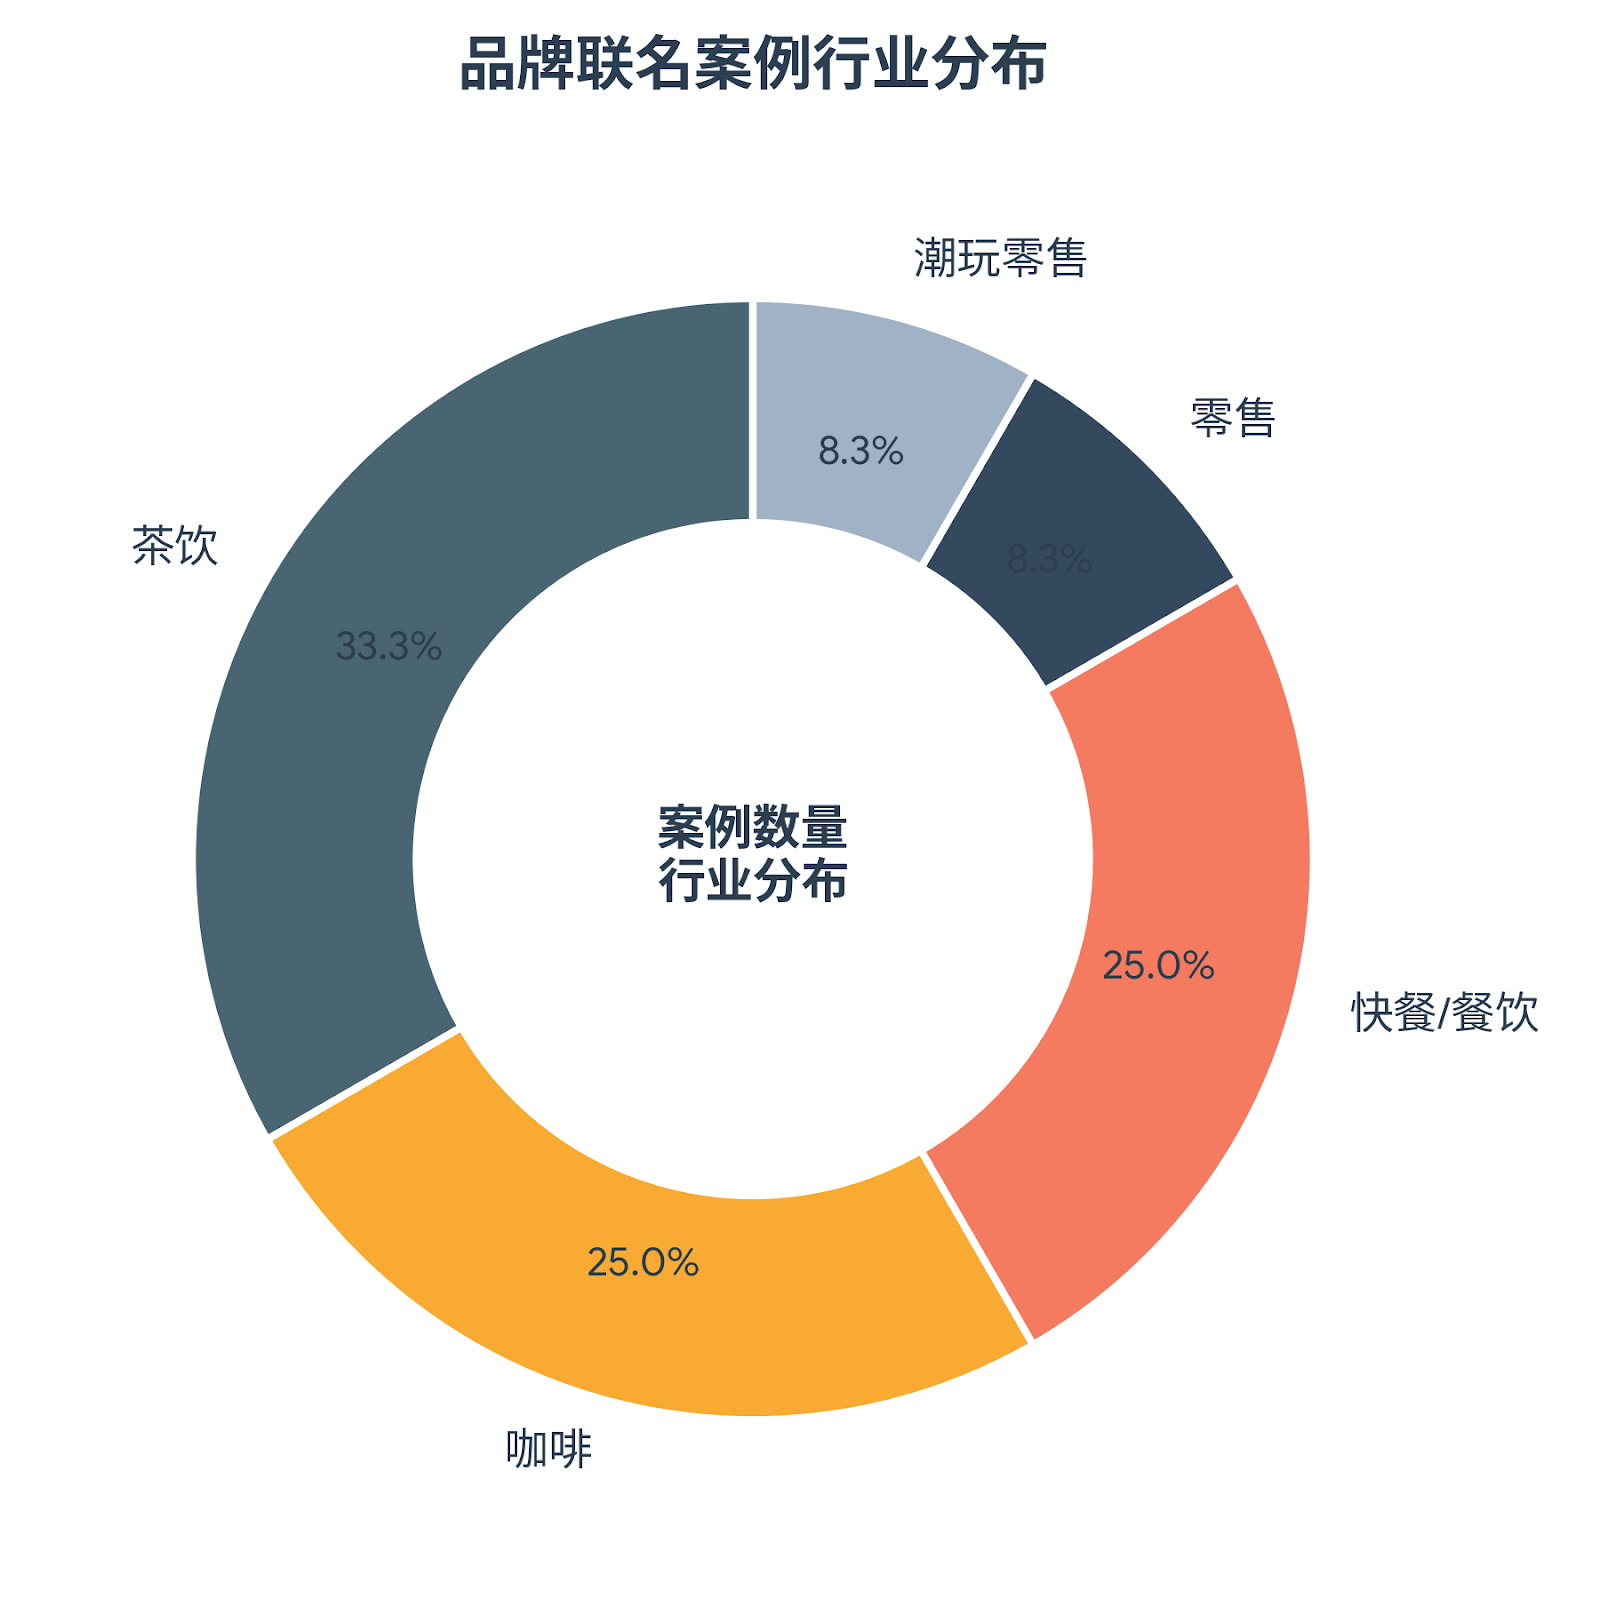
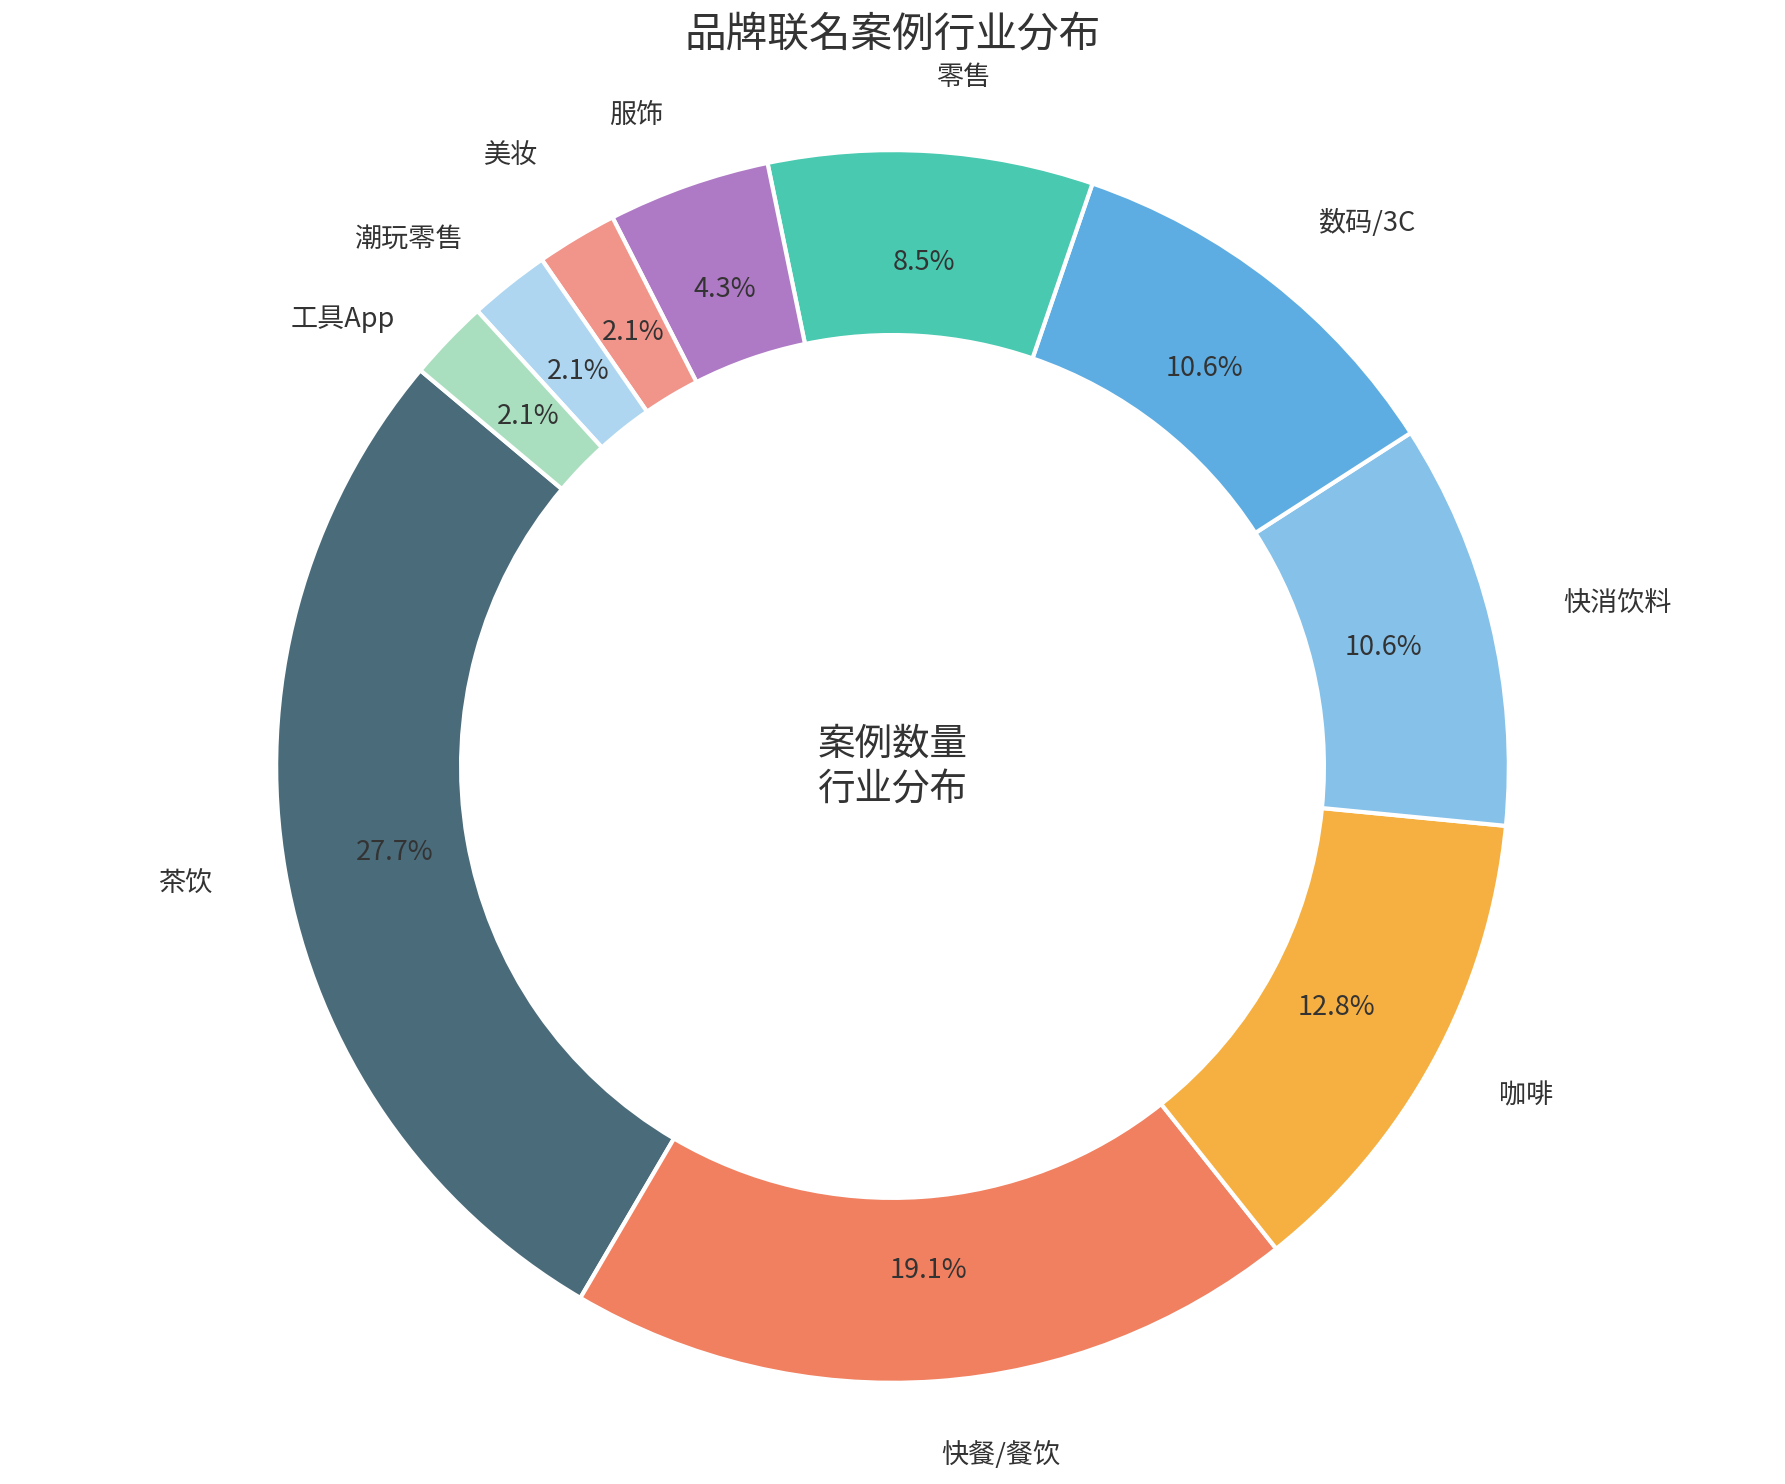
Add files via upload

diff --git a/script.js b/script.js
@@ -265,14 +265,14 @@ function setupCharts() {
 
   init("chart-industry", {
     title: {
-      text: "吃喝场景占据联名案例主场",
+      text: "吃喝场景仍是主场，行业向外扩散",
       left: "center",
       top: 4,
       textStyle: { ...baseText, fontSize: 18, fontWeight: 800 },
     },
     tooltip: { trigger: "item", formatter: "{b}<br/>{d}%" },
     legend: { bottom: 0, textStyle: baseText },
-    color: [blue, sky, orange, amber, "#94A3B8"],
+    color: [blue, orange, amber, sky, "#60A5FA", teal, "#A78BFA", "#FCA5A5", "#BAE6FD", "#86EFAC"],
     series: [
       {
         name: "行业分布",
@@ -288,26 +288,47 @@ function setupCharts() {
           lineHeight: 20,
         },
         data: [
-          { value: 33.3, name: "茶饮" },
-          { value: 25, name: "咖啡" },
-          { value: 25, name: "快餐/餐饮" },
-          { value: 8.3, name: "零售" },
-          { value: 8.3, name: "潮玩零售" },
+          { value: 27.7, name: "茶饮" },
+          { value: 19.1, name: "快餐/餐饮" },
+          { value: 12.8, name: "咖啡" },
+          { value: 10.6, name: "快消饮料" },
+          { value: 10.6, name: "数码/3C" },
+          { value: 8.5, name: "零售" },
+          { value: 4.3, name: "服饰" },
+          { value: 2.1, name: "美妆" },
+          { value: 2.1, name: "潮玩零售" },
+          { value: 2.1, name: "工具App" },
         ],
       },
     ],
   });
 
-  const heatRows = ["必胜客×原神", "喜茶×光与夜之恋", "名创优品×Chiikawa", "古茗×恋与深空", "瑞幸×黑神话", "泡泡玛特×哪吒2", "古茗×星穹铁道"];
+  const heatRows = [
+    "瑞幸×黑神话：悟空",
+    "古茗×星穹铁道",
+    "名创优品×Chiikawa",
+    "泡泡玛特×哪吒之魔童闹海",
+    "茶百道×未定事件簿",
+    "茶百道×星穹铁道",
+    "古茗×恋与深空",
+    "古茗×天官赐福",
+    "必胜客×原神",
+    "肯德基×原神",
+    "必胜客×鸣潮",
+  ];
   const heatCols = ["排队", "售罄", "黄牛/二手溢价", "App/小程序崩溃", "官方回应/道歉"];
   const heatValues = [
-    [1, 1, 0, 1, 0],
-    [1, 0, 1, 0, 1],
-    [1, 1, 1, 0, 1],
-    [1, 0, 0, 0, 1],
     [1, 1, 1, 1, 1],
-    [1, 1, 1, 0, 1],
     [1, 1, 0, 1, 1],
+    [1, 1, 1, 0, 1],
+    [1, 1, 1, 0, 1],
+    [1, 1, 0, 1, 0],
+    [1, 1, 1, 0, 0],
+    [1, 1, 0, 0, 1],
+    [1, 1, 0, 0, 1],
+    [1, 1, 0, 1, 0],
+    [1, 1, 0, 0, 0],
+    [1, 1, 0, 0, 0],
   ];
   init("chart-heatmap", {
     title: {
@@ -323,7 +344,7 @@ function setupCharts() {
         return `${heatRows[y]}<br>${heatCols[x]}：${value ? "出现" : "未见明显表现"}`;
       },
     },
-    grid: { left: 132, right: 16, top: 74, bottom: 94 },
+    grid: { left: 190, right: 16, top: 74, bottom: 94 },
     xAxis: {
       type: "category",
       data: heatCols,
@@ -335,7 +356,7 @@ function setupCharts() {
       type: "category",
       data: heatRows,
       inverse: true,
-      axisLabel: { color: slate },
+      axisLabel: { color: slate, fontSize: 12 },
       axisLine: { lineStyle: { color: gridLine } },
       axisTick: { show: false },
     },

diff --git a/index.html b/index.html
@@ -37,8 +37,8 @@
           <span class="metric-label">2024年泛二次元及周边市场规模</span>
         </div>
         <div class="metric-card">
-          <span class="metric-number">83.3%</span>
-          <span class="metric-label">茶饮、咖啡、快餐/餐饮占代表性联名案例比例</span>
+          <span class="metric-number">70.2%</span>
+          <span class="metric-label">茶饮、快餐/餐饮、咖啡、快消饮料占代表性联名案例比例</span>
         </div>
       </div>
 
@@ -100,50 +100,62 @@
           <figcaption><span>图4 品牌联名案例行业分布</span><small>来源：艾媒咨询、作者整理</small></figcaption>
         </figure>
 
-        <p>对近年来代表性品牌联名案例的行业分布进行统计，可以发现一个极度不均衡的漏斗结构。茶饮（33.3%）、咖啡（25.0%）与快餐/餐饮（25.0%）三大类目，合力占据了高达83.3%的绝对统治份额；零售与潮玩各占8.3%。</p>
-        <p>这种“吃喝为主”的格局并非巧合，而是由消费心理学决定的。茶饮与快餐具有“高频次、低客单价、极易触达”的特征。十几二十元的奶茶，辅以精心设计的IP杯套或徽章，完美充当了年轻人低成本获取“情绪价值”的出口。在高度同质化的餐饮赛道，二次元联名成为了品牌打出差异化、创造线下社交货币的最优解。</p>
+        <p>对近年来代表性品牌联名案例的行业分布进行统计，可以发现联名赛道已经从餐饮扩散到更多日常消费品类，但高频消费场景仍然占据主导。茶饮以27.7%位居第一，快餐/餐饮（19.1%）与咖啡（12.8%）紧随其后；快消饮料与数码/3C均为10.6%，零售占8.5%，服饰、美妆、潮玩零售与工具App等品类则构成更分散的长尾。</p>
+        <p>这种“吃喝为主、向多品类外溢”的格局并非巧合，而是由消费心理学决定的。茶饮、快餐、咖啡和快消饮料合计占比达到70.2%，它们共同具备“高频次、低客单价、极易触达”的特征。十几二十元的饮品或套餐，辅以精心设计的IP杯套、徽章或限定包装，完美充当了年轻人低成本获取“情绪价值”的出口。与此同时，数码/3C、零售、服饰美妆等品类的加入，也说明二次元联名正在从餐饮营销手段，转向更广泛的品牌年轻化工具。</p>
 
         <figure class="figure-card timeline-card reveal">
-          <div class="timeline-visual" aria-label="2022到2025年品牌二次元联名代表案例时间轴">
+          <div class="timeline-visual" aria-label="2021到2026年品牌二次元联名代表案例时间轴">
             <div class="timeline-line" aria-hidden="true"></div>
             <div class="timeline-item right">
               <span class="dot"></span>
-              <div class="timeline-box"><strong>2022年</strong><span>必胜客 × 原神</span><small>快餐/餐饮｜游戏IP｜APP拥堵</small></div>
+              <div class="timeline-box"><strong>2021年</strong><span>王老吉 × 第五人格</span><small>快消饮料｜游戏IP｜5亿罐定制罐大规模铺货</small></div>
             </div>
             <div class="timeline-item left">
               <span class="dot"></span>
-              <div class="timeline-box"><strong>2024年</strong><span>喜茶 × 光与夜之恋</span><small>茶饮｜女性向游戏IP｜爆单</small></div>
+              <div class="timeline-box"><strong>2021年</strong><span>全家 × 咒术回战</span><small>零售｜日漫IP｜持续联动，收藏卡热度高</small></div>
             </div>
             <div class="timeline-item right">
               <span class="dot"></span>
-              <div class="timeline-box"><strong>2024年</strong><span>名创优品 × Chiikawa/吉伊卡哇</span><small>零售｜潮流角色IP｜夜排</small></div>
+              <div class="timeline-box"><strong>2022年</strong><span>必胜客 × 原神</span><small>快餐｜游戏IP｜APP拥堵、抢购热潮</small></div>
             </div>
             <div class="timeline-item left">
               <span class="dot"></span>
-              <div class="timeline-box"><strong>2024年</strong><span>古茗 × 恋与深空</span><small>茶饮｜女性向游戏IP｜爆单</small></div>
+              <div class="timeline-box"><strong>2022年</strong><span>瑞幸 × JOJO的奇妙冒险</span><small>咖啡｜动漫IP｜限定周边引发抢购</small></div>
+            </div>
+            <div class="timeline-item right">
+              <span class="dot"></span>
+              <div class="timeline-box"><strong>2023年</strong><span>古茗 × 天官赐福</span><small>茶饮｜国漫IP｜三天周边断货，官方发道歉声明</small></div>
+            </div>
+            <div class="timeline-item left">
+              <span class="dot"></span>
+              <div class="timeline-box"><strong>2023年</strong><span>茶百道 × 未定事件簿</span><small>茶饮｜乙女游戏IP｜冲上热搜，店员喊“救命”</small></div>
             </div>
             <div class="timeline-item right">
               <span class="dot accent"></span>
-              <div class="timeline-box"><strong>2024年</strong><span>瑞幸咖啡 × 黑神话：悟空</span><small>咖啡｜国产游戏IP｜秒售罄</small></div>
+              <div class="timeline-box"><strong>2024年</strong><span>瑞幸 × 黑神话：悟空</span><small>咖啡｜国产游戏IP｜秒售罄、App崩、二手溢价</small></div>
             </div>
             <div class="timeline-item left">
               <span class="dot accent"></span>
-              <div class="timeline-box"><strong>2025年</strong><span>泡泡玛特 × 哪吒之魔童闹海</span><small>潮玩零售｜动画电影IP｜线上线下售罄</small></div>
+              <div class="timeline-box"><strong>2024年</strong><span>名创优品 × Chiikawa</span><small>零售｜潮流IP｜夜排、限流、售罄、黄牛</small></div>
             </div>
             <div class="timeline-item right">
               <span class="dot accent"></span>
-              <div class="timeline-box"><strong>2025年</strong><span>库迪咖啡 × 哪吒之魔童闹海</span><small>咖啡｜动画电影IP｜热卖</small></div>
+              <div class="timeline-box"><strong>2025年</strong><span>古茗 × 星穹铁道</span><small>茶饮｜游戏IP｜百万人排队、小程序崩溃</small></div>
             </div>
             <div class="timeline-item left">
               <span class="dot accent"></span>
-              <div class="timeline-box"><strong>2025年</strong><span>古茗 × 崩坏：星穹铁道</span><small>茶饮｜游戏IP｜百万人排队</small></div>
+              <div class="timeline-box"><strong>2025年</strong><span>泡泡玛特 × 哪吒之魔童闹海</span><small>潮玩｜动画电影IP｜线上线下售罄、二手溢价</small></div>
+            </div>
+            <div class="timeline-item right">
+              <span class="dot alert"></span>
+              <div class="timeline-box"><strong>2026年</strong><span>茶百道 × 星穹铁道</span><small>茶饮｜游戏IP｜3秒售罄、周边溢价5倍</small></div>
             </div>
           </div>
-          <img class="source-reference zoomable" src="assets/images/figure05-timeline.png" alt="2022到2025年品牌二次元联名代表案例时间轴原图">
-          <figcaption><span>图5 2022—2025年品牌二次元联名代表案例时间轴</span><small>来源：Bilibili平台公开内容分析、作者整理</small></figcaption>
+          <img class="source-reference zoomable" src="assets/images/figure05-timeline.png" alt="2021到2026年品牌二次元联名代表案例时间轴原图">
+          <figcaption><span>图5 2021—2026年品牌二次元联名代表案例时间轴</span><small>来源：Bilibili平台公开内容分析、作者整理</small></figcaption>
         </figure>
 
-        <p>如果将视线拉长，联名的频率和密度正在经历剧烈的压缩。在品牌联名时间轴上，2022年的“必胜客×原神”尚属于具有极高壁垒的年度重磅事件。然而到了2024至2025年，各类联名呈现出“按月扎堆”甚至“同档期神仙打架”的局面。从女性向游戏（光与夜之恋、恋与深空），到萌系潮流IP（Chiikawa），再到国产游戏与动画巨制（黑神话：悟空、哪吒之魔童闹海），联名覆盖的圈层越来越垂直细分。品牌联名已然从个别节点的营销活动，发展成为日常产品上新的常态化武器。</p>
+        <p>如果将视线拉长，联名的频率和行业边界都在不断变化。2021年的王老吉×第五人格、全家×咒术回战，说明联名并非只发生在茶饮赛道，而是从快消饮料、零售等更早的线下触点开始铺开；2022年的必胜客×原神、瑞幸×JOJO的奇妙冒险，则把“抢购、拥堵、限定周边”推向更大众的消费场景。到了2023至2026年，茶饮、咖啡、零售、潮玩等品牌密集入局，联名从单点爆款转向持续迭代：国漫、日漫、国产游戏、乙女游戏和潮流角色IP交替登场，覆盖的圈层越来越细，也越来越日常。</p>
 
         <figure class="figure-card chart-card reveal">
           <div class="chart heatmap-chart" id="chart-heatmap" role="img" aria-label="代表性品牌二次元IP联名爆款效应对比热力图"></div>
@@ -151,7 +163,7 @@
           <figcaption><span>图6 代表性品牌二次元IP联名爆款效应对比</span><small>来源：Bilibili平台公开内容分析、作者整理</small></figcaption>
         </figure>
 
-        <p>高频下场的联名，在现实中激起了怎样的浪花？在爆款现象热力图矩阵中，我们看到了极强的传播力与破坏力并存。“排队”、“售罄”和“黄牛/二手溢价”几乎标配于每一个现象级案例。而“App/小程序崩溃”这一挑战服务器并发极限的现象，也屡屡在星穹铁道、黑神话等顶流联动中上演。伴随而来的，是高达75%的案例出现了“官方回应/道歉”。这折射出巨大的热度往往会瞬间击穿品牌的常规供应链。</p>
+        <p>高频下场的联名，在现实中激起了怎样的浪花？在新版爆款现象热力图矩阵中，11个代表性案例几乎都出现了“排队”和“售罄”，这已经成为头部联名的基础特征。进一步看，“黄牛/二手溢价”集中出现在黑神话、Chiikawa、哪吒和星穹铁道等高收藏属性IP上；“App/小程序崩溃”则更多发生在瑞幸×黑神话、古茗×星穹铁道、茶百道×未定事件簿、必胜客×原神等需要线上集中下单的案例中。约半数案例最终触发官方回应或道歉，说明热度一旦越过供应链和系统承载能力，品牌收获声量的同时也会承受体验反噬。</p>
 
         <figure class="figure-card image-card reveal">
           <img class="zoomable" src="assets/images/figure07-comment-wordcloud.png" alt="四大行业消费者评论词云">
@@ -226,7 +238,7 @@
         <div class="chapter-label">四、总结</div>
         <h2>不止于营销，更是连接未来的商业共识</h2>
         <p class="lead">综合上述数据脉络，品牌越来越喜欢联名二次元IP的动因已经完全显影。</p>
-        <p>这并非某个品牌心血来潮的短期试水，而是一场多重利好因素交织下的系统性演进。不断扩大的五亿年轻用户底座和向三千亿体量冲击的周边市场，为品牌铺设了充满想象力的消费温床；以茶饮、快餐为主的高频消费场景，构筑了品牌与消费者最高效的情感交互桥梁。</p>
+        <p>这并非某个品牌心血来潮的短期试水，而是一场多重利好因素交织下的系统性演进。不断扩大的五亿年轻用户底座和向三千亿体量冲击的周边市场，为品牌铺设了充满想象力的消费温床；以茶饮、快餐、咖啡、快消饮料为主的高频消费场景，构筑了品牌与消费者最高效的情感交互桥梁。</p>
         <p>年轻一代愿意为认同的IP买单，为情绪价值付费，甚至为了稀缺性在二级市场推高溢价。在这个过程中，虽然存在着库存管理、黄牛倒卖等亟待优化的体验痛点，但瑕不掩瑜。通过二次元联名，实体品牌不仅收获了真金白银的销量转化，更实现了品牌资产的年轻化重塑，获取了极度宝贵的跨圈层用户数据。</p>
         <p>二次元IP联名，已经彻底跨越了短线营销的范畴，成为了存量时代下，品牌理解年轻受众、连接未来消费主力、提升长期商业价值的核心战略选项。</p>
       </section>

diff --git a/style.css b/style.css
@@ -311,7 +311,7 @@ a {
 }
 
 .heatmap-chart {
-  height: 510px;
+  height: 680px;
 }
 
 .model-chart {
@@ -371,7 +371,7 @@ figcaption small {
 
 .timeline-visual {
   position: relative;
-  min-height: 880px;
+  min-height: 1220px;
   padding: 26px 0 18px;
 }
 
@@ -426,6 +426,10 @@ figcaption small {
 
 .timeline-item .dot.accent {
   background: var(--orange);
+}
+
+.timeline-item .dot.alert {
+  background: #ef4444;
 }
 
 .timeline-item::after {
@@ -701,7 +705,7 @@ figcaption small {
   }
 
   .heatmap-chart {
-    height: 540px;
+    height: 760px;
   }
 
   .model-chart {
@@ -807,7 +811,7 @@ figcaption small {
   }
 
   .heatmap-chart {
-    height: 570px;
+    height: 820px;
   }
 
   .model-chart {